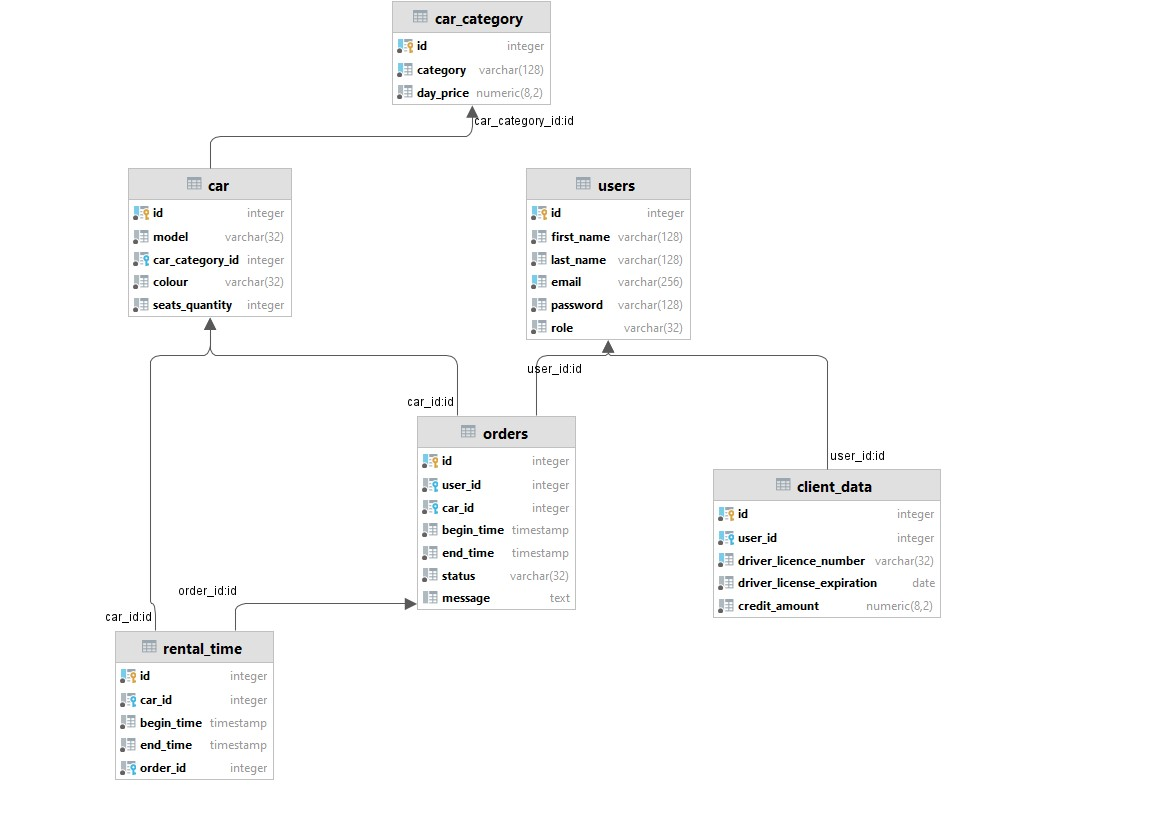
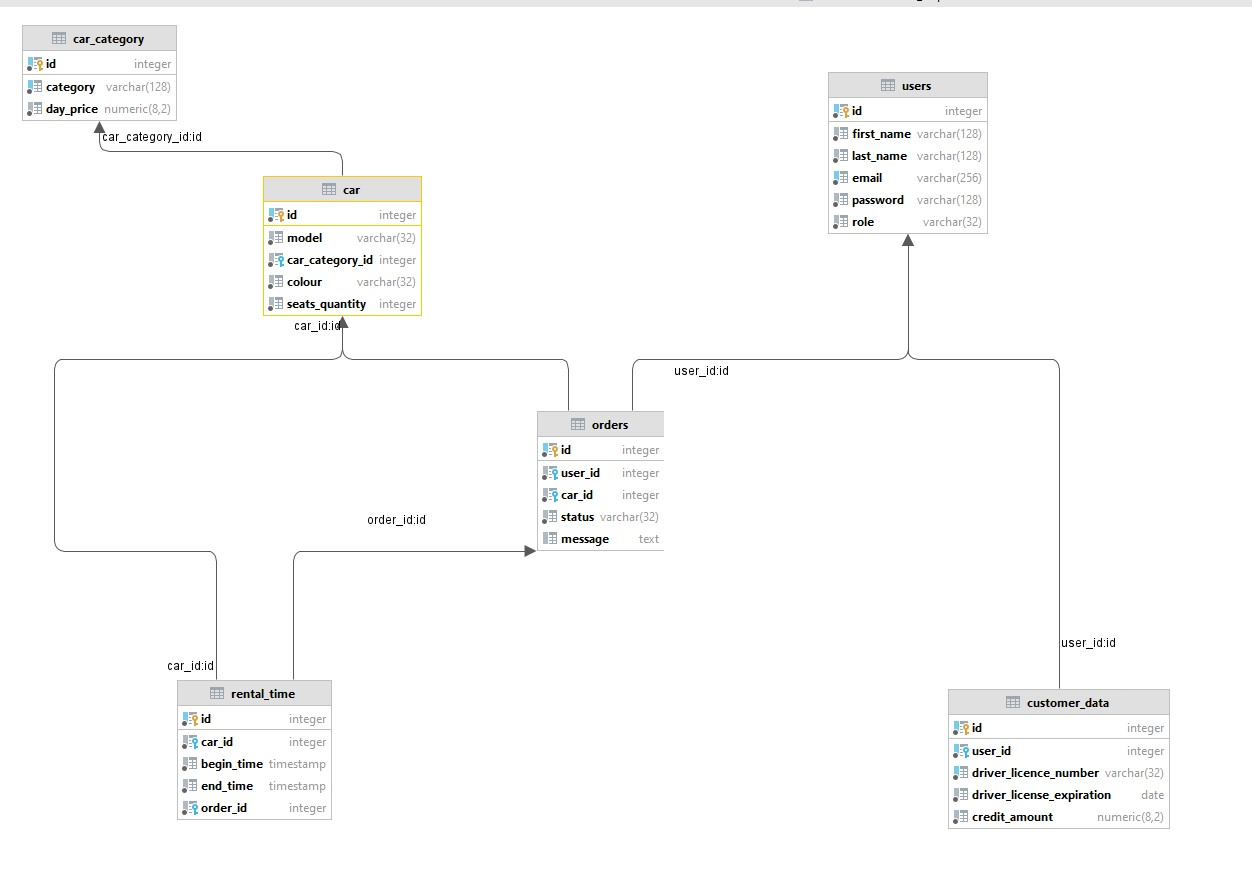
refactor

diff --git a/service/src/test/java/com/avuar1/entity/UserIT.java b/service/src/test/java/com/avuar1/entity/UserIT.java
@@ -1,23 +1,27 @@
 package com.avuar1.entity;
 
-import com.avuar1.util.HibernateUtil;
-import javax.transaction.Transactional;
+import lombok.extern.slf4j.Slf4j;
 import org.hibernate.Session;
 import org.hibernate.SessionFactory;
 import org.hibernate.Transaction;
-import org.junit.jupiter.api.*;
+import org.junit.jupiter.api.AfterAll;
+import org.junit.jupiter.api.BeforeAll;
+import org.junit.jupiter.api.Test;
+import org.junit.jupiter.api.TestInstance;
+import util.HibernateTestUtil;
 
 import static org.junit.jupiter.api.Assertions.assertEquals;
 import static org.junit.jupiter.api.Assertions.assertNotNull;
 
+@Slf4j
 @TestInstance(TestInstance.Lifecycle.PER_CLASS)
 class UserIT {
 
-    private SessionFactory sessionFactory;
+    private static SessionFactory sessionFactory;
 
     @BeforeAll
     void setup() {
-        sessionFactory = HibernateUtil.buildSessionFactory();
+        sessionFactory = HibernateTestUtil.buildSessionFactory();
     }
 
     @AfterAll
@@ -55,8 +59,10 @@ class UserIT {
             assertEquals("test", savedUser.getPassword());
             assertEquals("CLIENT", savedUser.getRole().toString());
 
-            transaction.commit();
 
+            transaction.rollback();
+            session.delete(user);
+            session.clear();
         }
     }
 
@@ -73,18 +79,21 @@ class UserIT {
                     .password("test")
                     .role(Role.CLIENT)
                     .build();
-
+            // Сохранили юзера
             session.save(user);
-
+            // Пропихнули юзера
             session.flush();
+            //убрали Юзера из контекста
             session.evict(user);
-
+            // закрыли транзакцию
             transaction.commit();
-
+            session.clear();
+            // Открыли вторую транзакцию
             Transaction transaction2 = session.beginTransaction();
 
+            // добавили юзера в контекст
             User foundUser = session.get(User.class, user.getId());
-
+            // сравнили
             assertNotNull(foundUser);
 
             assertEquals("Ivan", foundUser.getFirstName());
@@ -93,7 +102,13 @@ class UserIT {
             assertEquals("test", foundUser.getPassword());
             assertEquals("CLIENT", foundUser.getRole().toString());
 
+//            // откатили транзакцию
+            transaction2.rollback();
+            // удалили юзера из БД
+            session.delete(user);
             transaction2.commit();
+            // очистили сессию
+            session.clear();
         }
     }
 }

diff --git a/service/src/main/java/com/avuar1/util/HibernateUtil.java b/service/src/main/java/com/avuar1/util/HibernateUtil.java
@@ -1,5 +1,6 @@
 package com.avuar1.util;
 
+import com.avuar1.entity.User;
 import lombok.experimental.UtilityClass;
 import org.hibernate.SessionFactory;
 import org.hibernate.boot.model.naming.CamelCaseToUnderscoresNamingStrategy;
@@ -9,10 +10,19 @@ import org.hibernate.cfg.Configuration;
 public class HibernateUtil {
 
     public static SessionFactory buildSessionFactory() {
-        Configuration configuration = new Configuration();
-        configuration.setPhysicalNamingStrategy(new CamelCaseToUnderscoresNamingStrategy());
+        Configuration configuration = buildConfiguration();
         configuration.configure();
 
         return configuration.buildSessionFactory();
+    }
+
+    public static Configuration buildConfiguration() {
+        Configuration configuration = new Configuration();
+
+        configuration.setPhysicalNamingStrategy(new CamelCaseToUnderscoresNamingStrategy());
+        configuration.addAnnotatedClass(User.class);
+
+        return configuration;
+
     }
 }

diff --git a/service/src/main/java/com/avuar1/entity/Order.java b/service/src/main/java/com/avuar1/entity/Order.java
@@ -1,8 +1,8 @@
 package com.avuar1.entity;
 
 import java.time.LocalDate;
-import javax.persistence.Entity;
-import javax.persistence.Id;
+import java.time.LocalDateTime;
+import javax.persistence.*;
 import lombok.AllArgsConstructor;
 import lombok.Builder;
 import lombok.Data;
@@ -16,17 +16,15 @@ import lombok.NoArgsConstructor;
 public class Order {
 
     @Id
+    @GeneratedValue(strategy = GenerationType.IDENTITY)
     private Integer id;
 
     private Integer userId;
 
     private Integer carId;
 
-    private LocalDate rentalStart;
-
-    private LocalDate rentalEnd;
-
-    private String status;
+    @Enumerated(EnumType.STRING)
+    private OrderStatus orderStatus;
 
     private String message;
 

diff --git a/service/src/main/java/com/avuar1/entity/Car.java b/service/src/main/java/com/avuar1/entity/Car.java
@@ -1,7 +1,6 @@
 package com.avuar1.entity;
 
-import javax.persistence.Entity;
-import javax.persistence.Id;
+import javax.persistence.*;
 import lombok.AllArgsConstructor;
 import lombok.Builder;
 import lombok.Data;
@@ -15,11 +14,13 @@ import lombok.NoArgsConstructor;
 public class Car {
 
     @Id
+    @GeneratedValue(strategy = GenerationType.IDENTITY)
     private Integer id;
 
-    private Integer model;
+    @Enumerated(EnumType.STRING)
+    private CarModel carModel;
 
-    private Integer carCategoryId;
+    private Integer categoryId;
 
     private String colour;
 

diff --git a/service/src/main/java/com/avuar1/App.java b/service/src/main/java/com/avuar1/App.java
@@ -4,8 +4,13 @@ package com.avuar1;
 import com.avuar1.util.HibernateUtil;
 import org.hibernate.Session;
 import org.hibernate.SessionFactory;
+import org.slf4j.Logger;
+import org.slf4j.LoggerFactory;
 
 public class App {
+
+    private static final Logger log = LoggerFactory.getLogger(App.class);
+
     public static void main(String[] args) {
 
         try (SessionFactory sessionFactory = HibernateUtil.buildSessionFactory();
@@ -14,7 +19,9 @@ public class App {
 
 
             session.getTransaction().commit();
+
         }
+        log.info("start App");
     }
 
 }

diff --git a/service/src/main/java/com/avuar1/entity/CustomerData.java b/service/src/main/java/com/avuar1/entity/CustomerData.java
@@ -2,6 +2,8 @@ package com.avuar1.entity;
 
 import java.time.LocalDate;
 import javax.persistence.Entity;
+import javax.persistence.GeneratedValue;
+import javax.persistence.GenerationType;
 import javax.persistence.Id;
 import lombok.AllArgsConstructor;
 import lombok.Builder;
@@ -17,6 +19,7 @@ import net.bytebuddy.implementation.bind.annotation.BindingPriority;
 public class CustomerData {
 
     @Id
+    @GeneratedValue(strategy = GenerationType.IDENTITY)
     private Integer id;
 
     private Integer userId;

diff --git a/service/src/main/java/com/avuar1/entity/RentalTime.java b/service/src/main/java/com/avuar1/entity/RentalTime.java
@@ -2,6 +2,8 @@ package com.avuar1.entity;
 
 import java.time.LocalDateTime;
 import javax.persistence.Entity;
+import javax.persistence.GeneratedValue;
+import javax.persistence.GenerationType;
 import javax.persistence.Id;
 import lombok.AllArgsConstructor;
 import lombok.Builder;
@@ -16,6 +18,7 @@ import lombok.NoArgsConstructor;
 public class RentalTime {
 
     @Id
+    @GeneratedValue(strategy = GenerationType.IDENTITY)
     private Integer id;
 
     private Integer carId;

diff --git a/service/src/main/java/com/avuar1/entity/CarCategory.java b/service/src/main/java/com/avuar1/entity/CarCategory.java
@@ -1,6 +1,8 @@
 package com.avuar1.entity;
 
 import javax.persistence.Entity;
+import javax.persistence.GeneratedValue;
+import javax.persistence.GenerationType;
 import javax.persistence.Id;
 import lombok.AllArgsConstructor;
 import lombok.Builder;
@@ -15,6 +17,7 @@ import lombok.NoArgsConstructor;
 public class CarCategory {
 
     @Id
+    @GeneratedValue(strategy = GenerationType.IDENTITY)
     private Integer id;
 
     private String category;

diff --git a/service/src/main/java/com/avuar1/entity/User.java b/service/src/main/java/com/avuar1/entity/User.java
@@ -29,3 +29,7 @@ public class User {
     @Enumerated(EnumType.STRING)
     private Role role;
 }
+
+
+//TODO Сделать тест на все сущности проверить UserIT
+//TODO Сделать маппинг между таблицами
